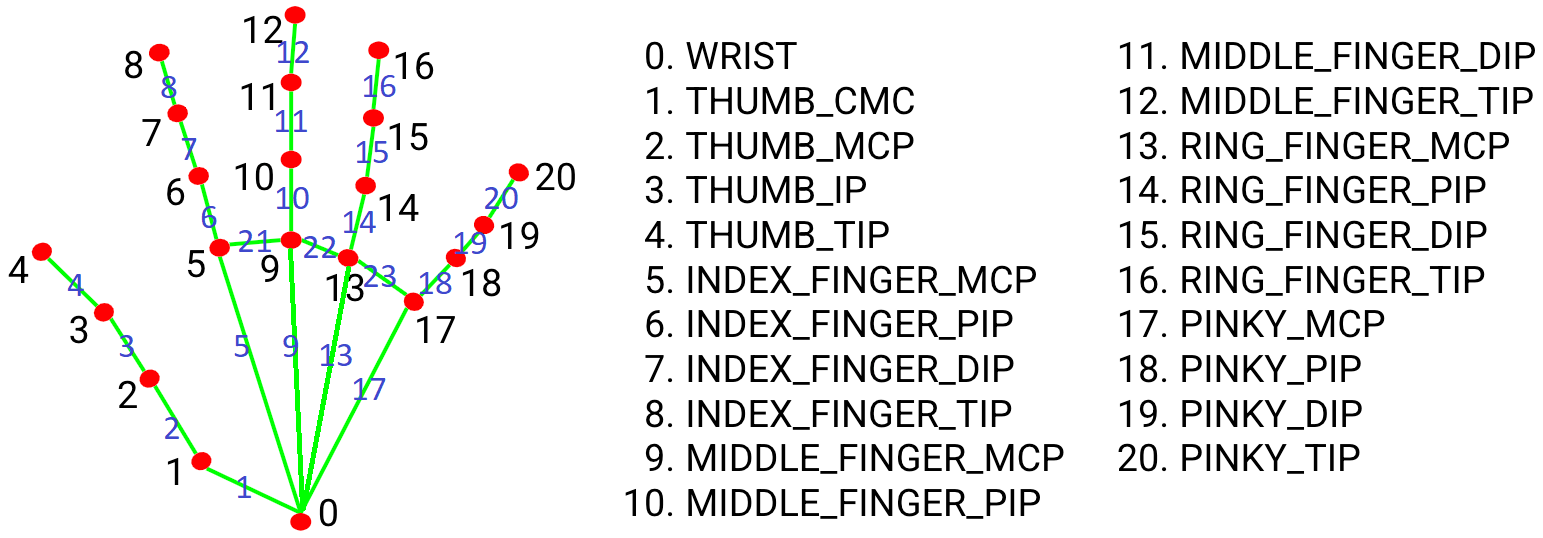
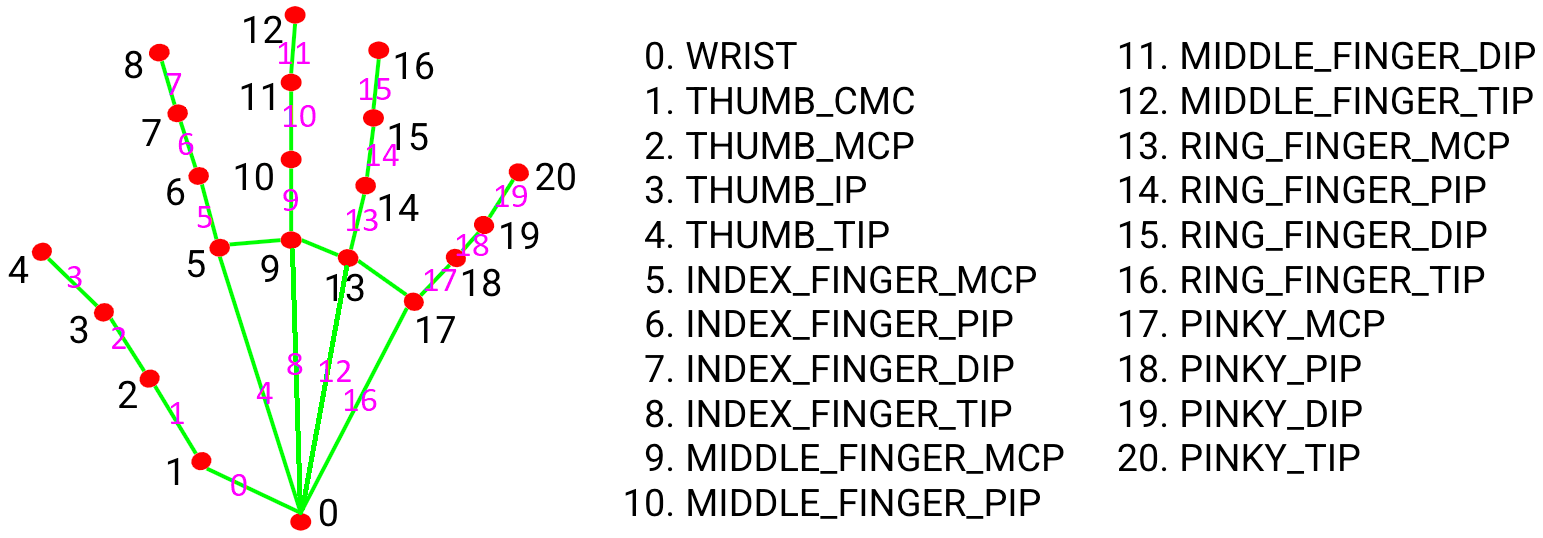
<joints> module: ANGLE and CONNS constants change

diff --git a/joints.py b/joints.py
@@ -10,33 +10,16 @@ class joints:
         self.COORD_DIM = 3
 
         #Store connection instructions
-        self.CONNNECTIONS_HAND = np.zeros((self.LANDMARK_COUNT, self.COORD_DIM), dtype = np.int32)
-        for idx, conn in enumerate(self.CONNNECTIONS_HAND):
-            conn = [idx, idx, idx - 1]
-        self.CONNNECTIONS_HAND[5] = [5, 5, 0]
-        self.CONNNECTIONS_HAND[9] = [9, 9, 0]
-        self.CONNNECTIONS_HAND[13] = [13, 13, 0]
-        self.CONNNECTIONS_HAND[17] = [17, 17, 0]
+        self.CONNECTIONS_PARENT = [1, 2, 3, 4, 5, 6, 7, 8, 9, 10, 11, 12, 13, 14, 15, 16, 17, 18, 19, 20]
+        self.CONNECTIONS_CHILD = [0, 1, 2, 3, 0, 5, 6, 7, 0,  9, 10, 11,  0, 13, 14, 15,  0, 17, 18, 19]
+
 
         #store angles to annotate
         #[landmark label, conn1, conn2]
-        self.ANGLES_HAND = np.zeros((21, 3), dtype = np.int32)
-        self.ANGLES_HAND = [[1, 1, 2],
-                       [2, 2, 3],
-                       [3, 3, 4],
-                       [5, 5, 6],
-                       [6, 6, 7],
-                       [7, 7, 8],
-                       [9, 9, 10],
-                       [10, 10, 11],
-                       [11, 11, 12],
-                       [13, 13, 14],
-                       [14, 14, 15],
-                       [15, 15, 16],
-                       [17, 17, 18],
-                       [18, 18, 19],
-                       [19, 19, 20],
-        ]
+        self.ANGLES_SHOW   = [0, 0, 0, 1, 1, 1, 0,  0,  0,  0,  0,  0,  0,  0,  0]
+        self.ANGLES_AT     = [1, 2, 3, 5, 6, 7, 9, 10, 11, 13, 14, 15, 17, 18, 19]
+        self.ANGLES_PARENT = [1, 2, 3, 5, 6, 7, 9, 10, 11, 13, 14, 15, 17, 18, 19]
+        self.ANGLES_CHILD  = [0, 1, 2, 4, 5, 6, 8,  9, 10, 12, 13, 14, 16, 17, 18]
 
         #coordinates, connections, and angels between connections
         self.landmarks = np.zeros((self.LANDMARK_COUNT, 3))
@@ -55,22 +38,27 @@ class joints:
     def calcConnections(self, image, results):
         coords = self.calcCoordinates(image, results)
         print(coords)
-        for idx,landmarks in enumerate(self.coord):
-            if idx == 0:
-                continue
-            self.conn[idx] = coords[idx] - coords[idx - 1]
-
-        for connect in self.CONNNECTIONS_HAND:
-            idx = connect[0]
-            conn_to = connect[1]
-            conn_from = connect[2]
-            self.conn[idx] = coords[conn_to] - coords[conn_from]
+        for idx, (a, b) in enumerate(zip(self.CONNECTIONS_PARENT, self.CONNECTIONS_CHILD)):
+            self.conn[idx] = coords[a] - coords[b]
+        print('conns:', self.conn)
+        # for idx,landmarks in enumerate(self.coord):
+        #     if idx == 0:
+        #         continue
+        #     self.conn[idx] = coords[idx] - coords[idx - 1]
+        #
+        # for connect in self.CONNNECTIONS_HAND:
+        #     idx = connect[0]
+        #     conn_to = connect[1]
+        #     conn_from = connect[2]
+        #     self.conn[idx] = coords[conn_to] - coords[conn_from]
         return self.conn
 
     def angleBetween(self, conn1, conn2):
         unit_conn1  = conn1/np.linalg.norm(conn1)
         unit_conn2  = conn2/np.linalg.norm(conn2)
-        # print(unit_conn1, unit_conn2)
+        # unit_conn1 = conn1 / np.linalg.norm(conn1[:2])
+        # unit_conn2 = conn2 / np.linalg.norm(conn2[:2])
+        print(unit_conn1, unit_conn2)
         dot_product = np.dot(unit_conn1, unit_conn2)
         rad_angle = np.arccos(dot_product)
         deg_angle = rad_angle * 180/np.pi
@@ -78,7 +66,7 @@ class joints:
 
     def labelAngle(self, image, coord, conn1, conn2):
         angle = self.angleBetween(conn1, conn2)
-
+        print(angle)
         image_width, image_height = image.shape[:2]
         x = math.floor(coord[0] * image_height)
         y = math.floor(coord[1] * image_width)
@@ -102,13 +90,17 @@ class joints:
 
     def drawAngles(self, image, results):
         conn = self.calcConnections(image, results)
-        for item in self.ANGLES_HAND:
-            landmark = self.coord[item[0]]
-            conn1 = self.conn[item[1]]
-            conn2 = self.conn[item[2]]
-            self.labelAngle(image, landmark, conn1, conn2)
+        for show, idx, a, b in zip(self.ANGLES_SHOW, self.ANGLES_AT, self.ANGLES_PARENT, self.ANGLES_CHILD):
+            if show == 1:
+                landmark = self.coord[idx]
+                conn1 = self.conn[a]
+                conn2 = self.conn[b]
+                self.labelAngle(image, landmark, conn1, conn2)
 
         #TEST
         # self.labelAngle(image, self.coord[5], self.conn[5], self.conn[6])
 
         return image
+
+    def getCoordinates(self):
+        return self.coord

diff --git a/joints_video_test/3d_joints_video_test.py b/joints_video_test/3d_joints_video_test.py
@@ -1,0 +1,90 @@
+import mediapipe as mp
+import cv2
+import joints
+import matplotlib.pyplot as plt
+import time
+import numpy as np
+import uuid
+import os
+
+mp_drawing = mp.solutions.drawing_utils
+mp_hands = mp.solutions.hands
+mp_drawing_styles = mp.solutions.drawing_styles
+
+cap = cv2.VideoCapture(0)
+
+#3d figure setup
+fig = plt.figure(figsize=(8, 8))
+ax = fig.add_subplot(111, projection='3d')
+plt.ion()
+
+with mp_hands.Hands(min_detection_confidence=0.8, min_tracking_confidence=0.5) as hands:
+    while cap.isOpened():
+        ret, frame = cap.read()
+        frame = cv2.flip(frame, 1)
+
+        # BGR to RGB
+        image = cv2.cvtColor(frame, cv2.COLOR_BGR2RGB)
+
+        # set flag
+        image.flags.writeable = False
+
+        # Detections
+        results = hands.process(image)
+
+        # set flag to true
+        image.flags.writeable = True
+
+        # RGB to BGR
+        image = cv2.cvtColor(image, cv2.COLOR_RGB2BGR)
+
+        # Detections
+        # print(results)
+
+        # Test
+        image_height, image_width = image.shape[:2]
+
+        circle_spec = mp_drawing.DrawingSpec(color=(0, 47, 255), thickness=5, circle_radius=8)
+
+        connection_spec = mp_drawing.DrawingSpec(color=(0, 217, 255), thickness=5, circle_radius=2)
+
+        #detection is successful
+        if results.multi_hand_landmarks:
+            #label landmarks and connections
+            for num, hand in enumerate(results.multi_hand_landmarks):
+                print(hand)
+                mp_drawing.draw_landmarks(image,
+                                          hand,
+                                          mp_hands.HAND_CONNECTIONS,
+                                          mp_drawing_styles.get_default_hand_landmarks_style(),
+                                          mp_drawing_styles.get_default_hand_connections_style())
+            #label angles
+            joints_hand = joints.joints()
+            image = joints_hand.drawAngles(image, results)
+
+            # calc 3d results
+            plt.cla()
+
+            x = joints_hand.coord[:,0]
+            y = joints_hand.coord[:,1]
+            z = joints_hand.coord[:,2]
+            ax.scatter(x, 1- y, z)  # plot the point (2,3,4) on the figure
+
+        #display image
+        cv2.imshow('frame', image)
+
+        #display 3d scatter plot
+        ax.set_zlim3d(-0.1, 0.1)  # viewrange for z-axis should be [-4,4]
+        ax.set_ylim3d(0, 1)  # viewrange for y-axis should be [-2,2]
+        ax.set_xlim3d(0, 1)  # viewrange for x-axis should be [-2,2]
+        ax.set_xlabel('x-axis')
+        ax.set_ylabel('y-axis')
+        ax.set_zlabel('z-axis')
+        plt.show()
+        plt.pause(0.00001)  # Note this correction
+
+        #termination
+        if (cv2.waitKey(10) & 0xFF) == ord('q'):
+            break
+cap.release()
+cv2.destroyAllWindows()

diff --git a/joints_video_test/blib_exmaple.py b/joints_video_test/blib_exmaple.py
@@ -1,0 +1,19 @@
+import matplotlib.pyplot as plt
+import numpy as np
+plt.ion() ## Note this correction
+fig=plt.figure()
+plt.axis([0,1000,0,1])
+
+i=0
+x=list()
+y=list()
+
+while i <1000:
+    plt.cla()
+    temp_y=np.random.random();
+    x.append(i);
+    y.append(temp_y);
+    plt.scatter(x,y);
+    i+=1;
+    plt.show()
+    plt.pause(0.0001) #Note this correction
